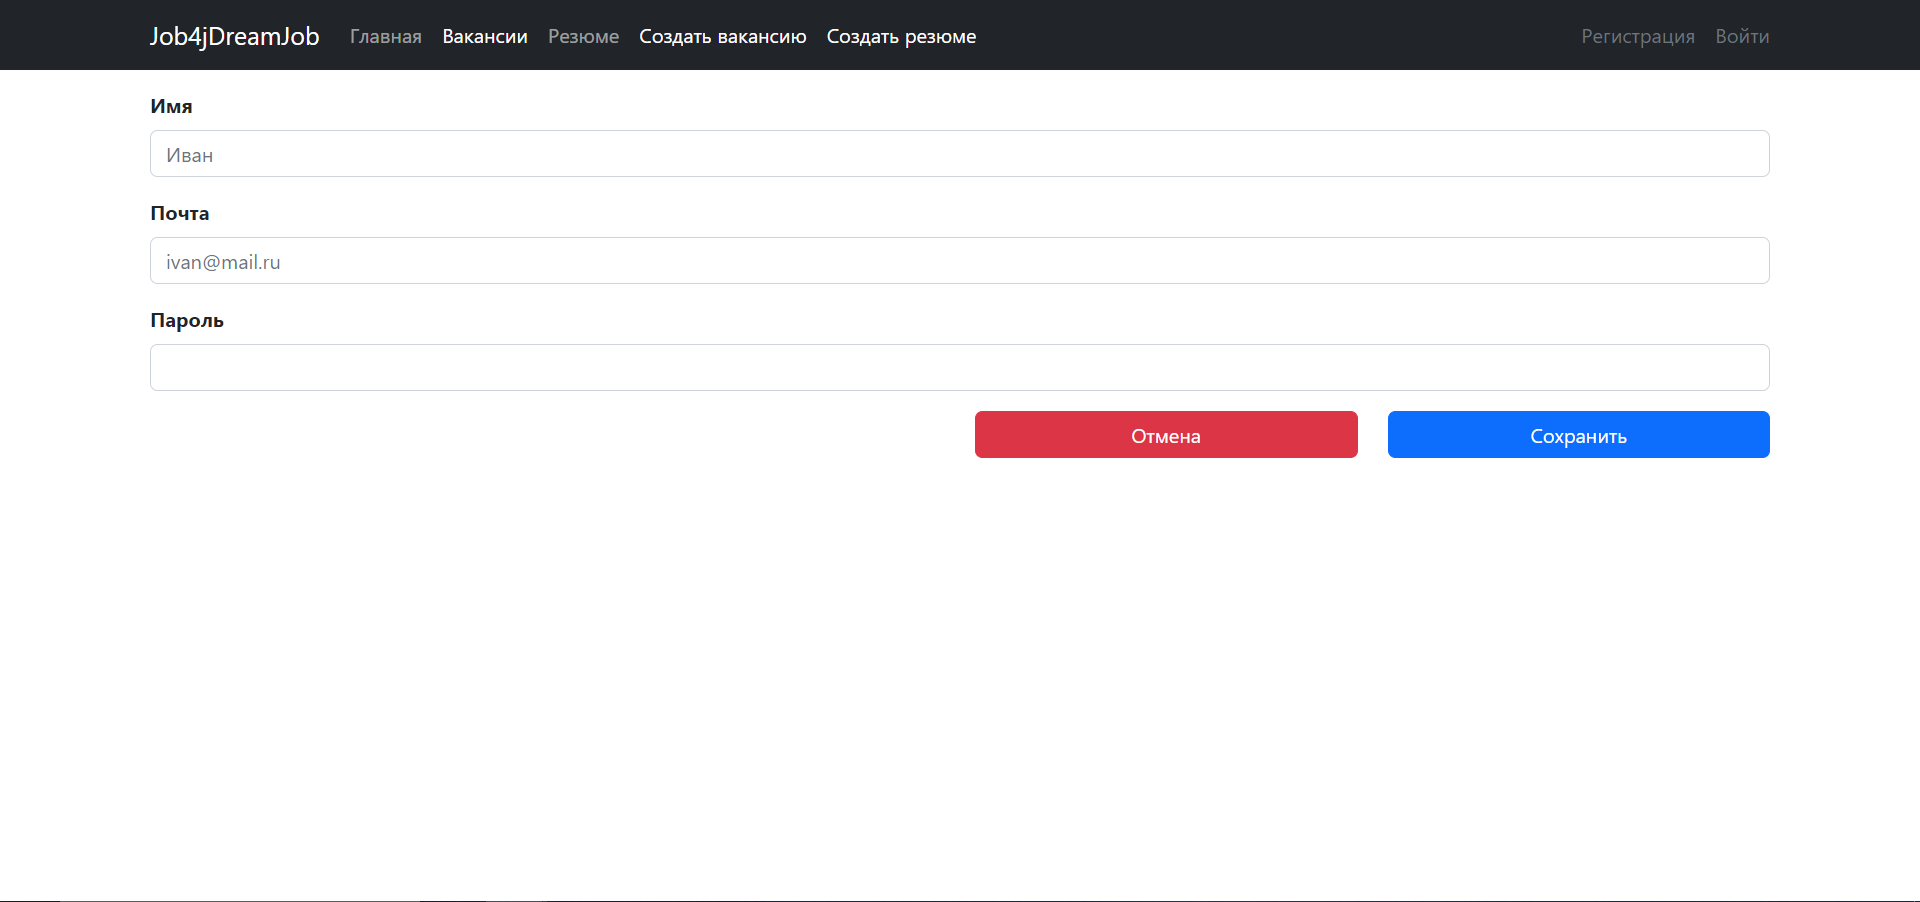
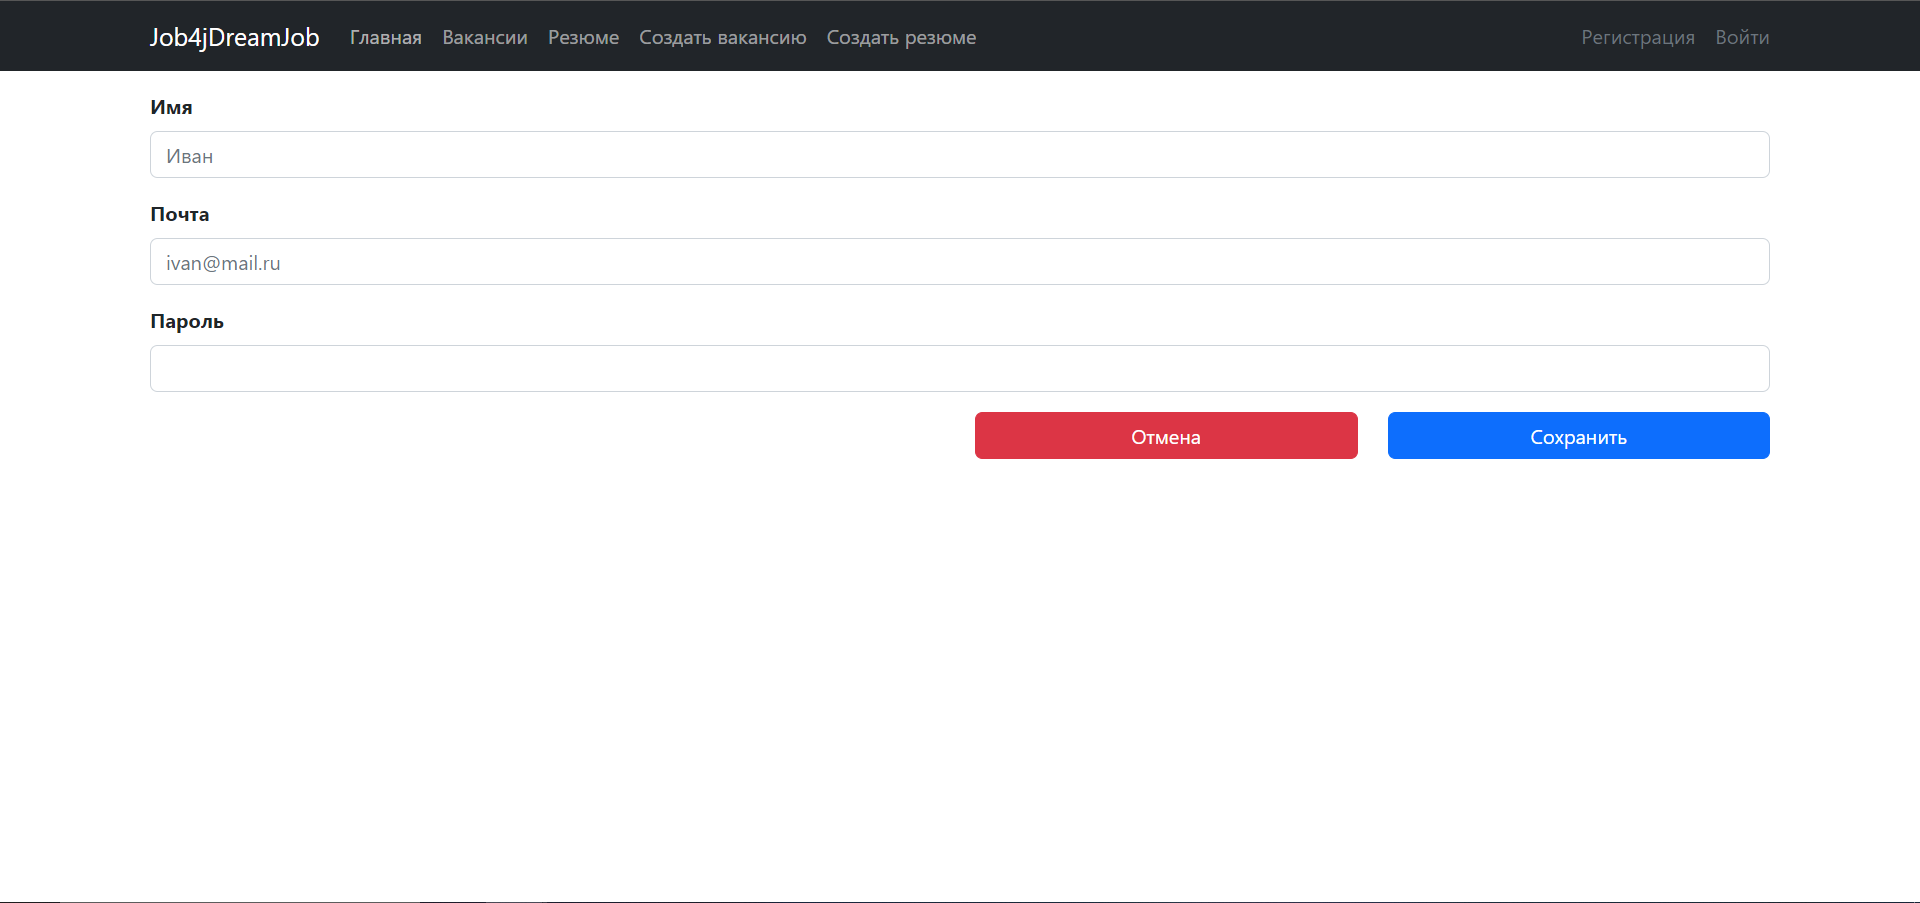
Update README.md

diff --git a/src/main/resources/templates/users/registration.html b/src/main/resources/templates/users/registration.html
@@ -24,10 +24,10 @@
             <div class="collapse navbar-collapse">
                 <div class="navbar-nav me-auto">
                     <a class="nav-item nav-link" href="/">Главная</a>
-                    <a class="nav-item nav-link active" th:href="@{/vacancies}">Вакансии</a>
+                    <a class="nav-item nav-link" th:href="@{/vacancies}">Вакансии</a>
                     <a class="nav-item nav-link" th:href="@{/candidates}">Резюме</a>
-                    <a class="nav-item nav-link active" th:href="@{/vacancies/create}">Создать вакансию</a>
-                    <a class="nav-item nav-link active" th:href="@{/candidates/create}">Создать резюме</a>
+                    <a class="nav-item nav-link" th:href="@{/vacancies/create}">Создать вакансию</a>
+                    <a class="nav-item nav-link" th:href="@{/candidates/create}">Создать резюме</a>
                 </div>
                 <div class="d-flex" th:if="${user.name == 'Гость'}">
                     <a class="nav-link text-secondary me-3" th:href="@{/users/register}">Регистрация</a>
